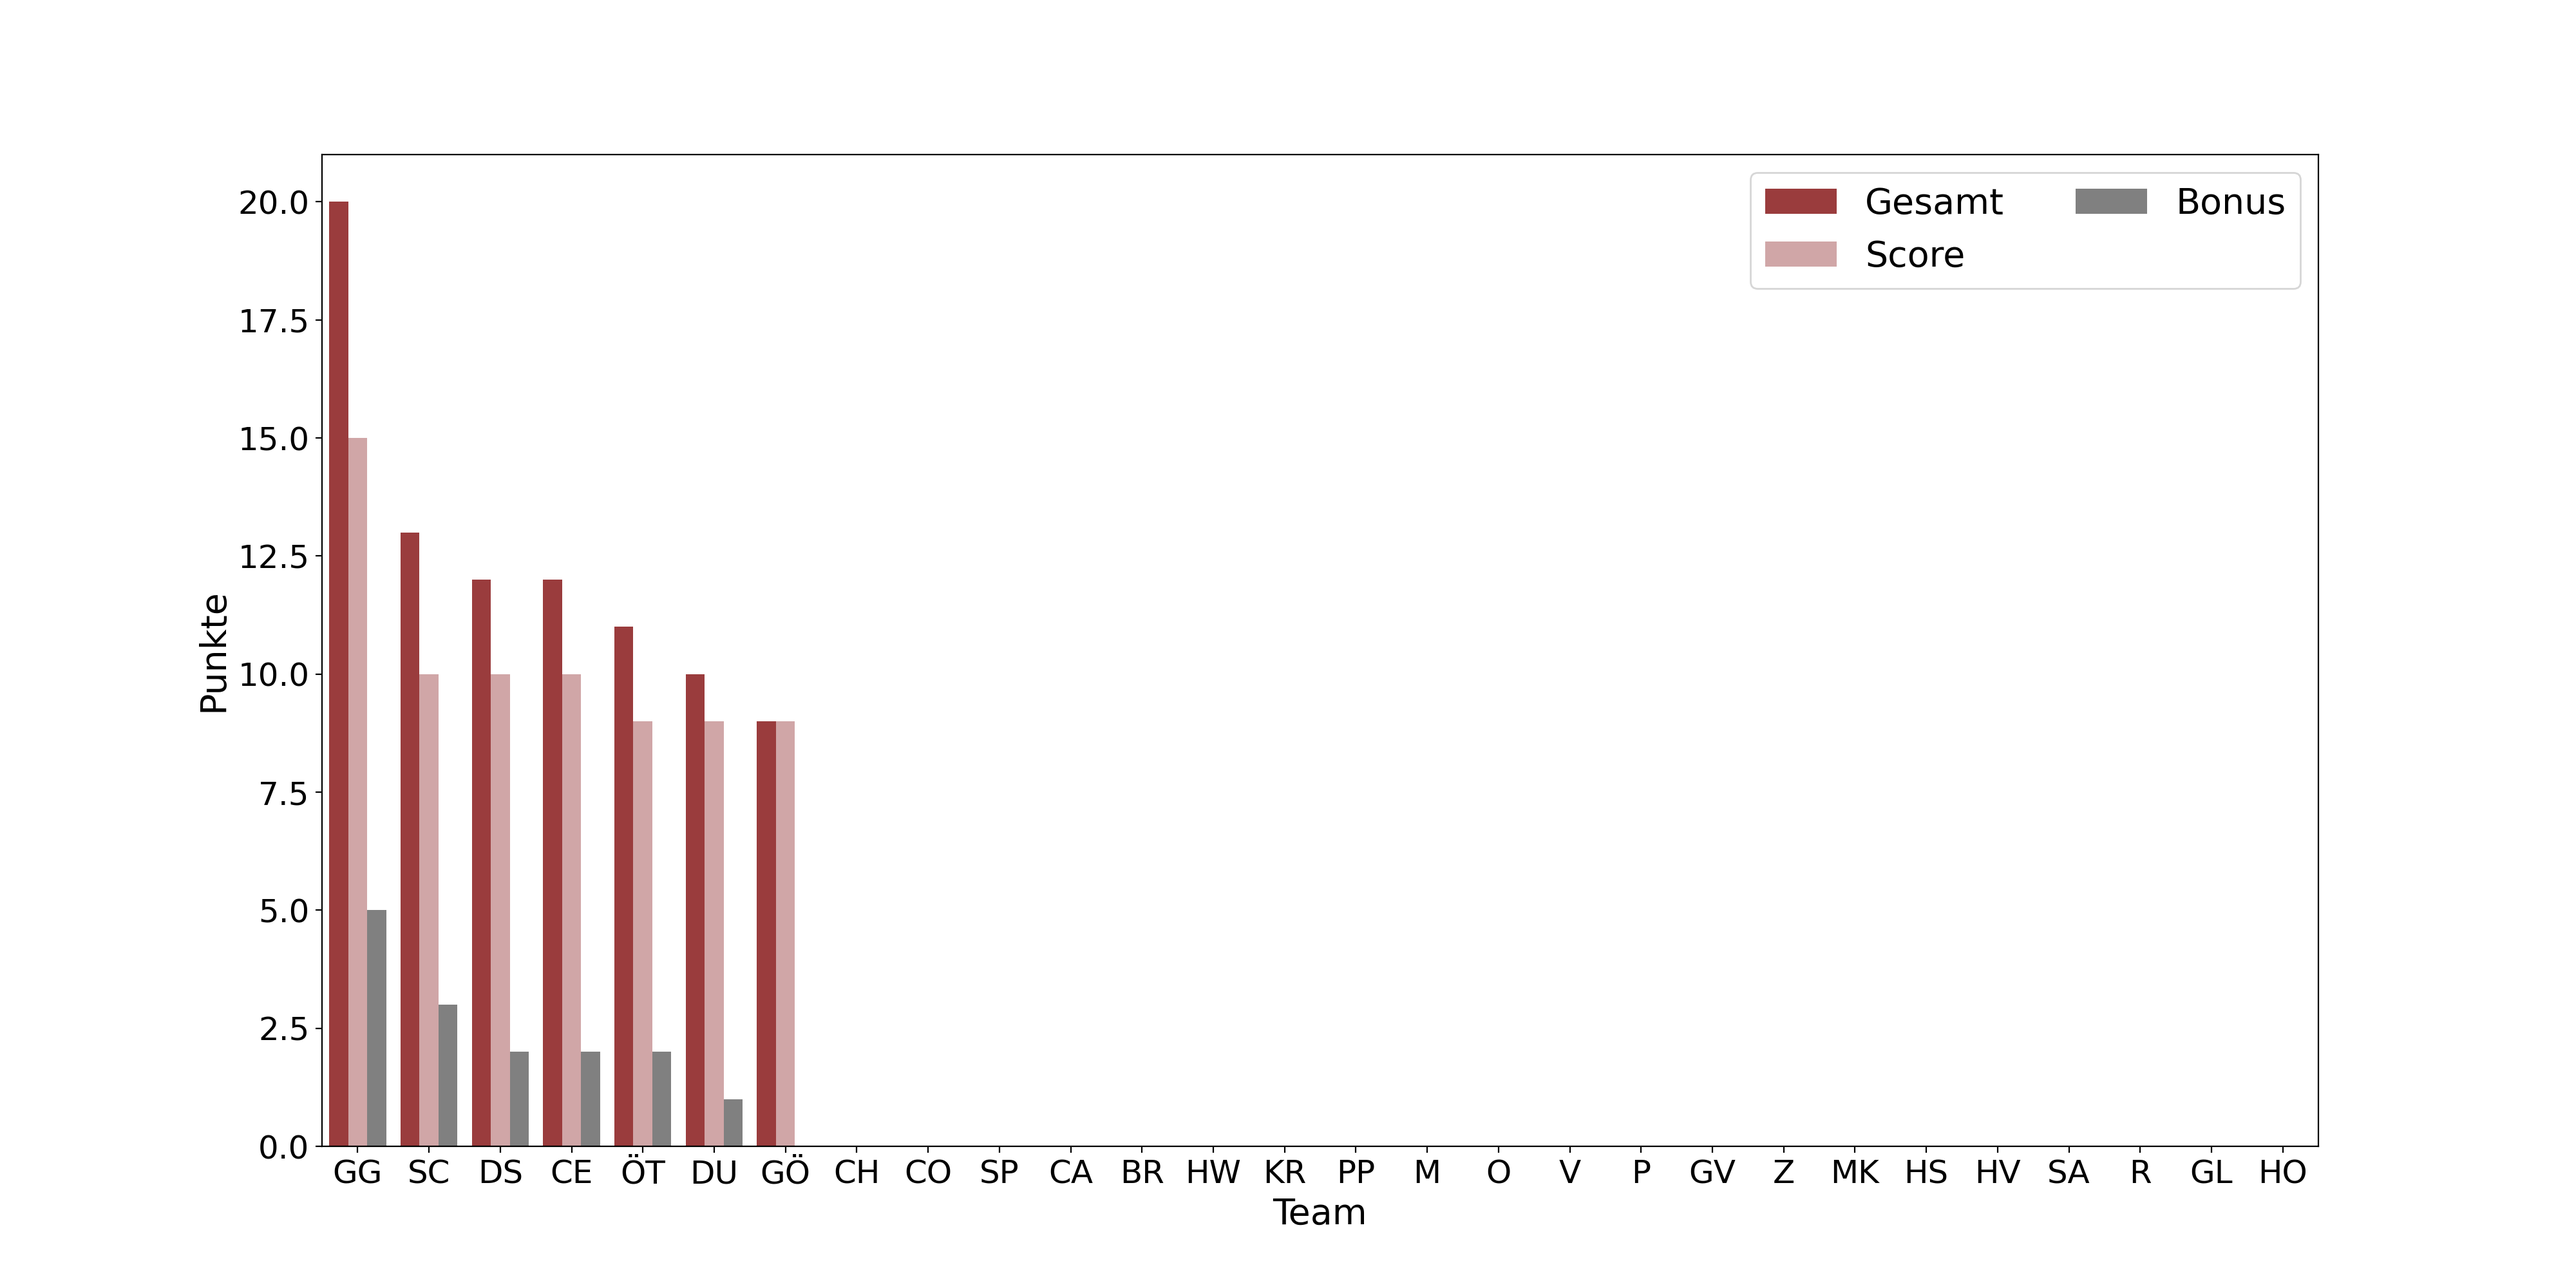
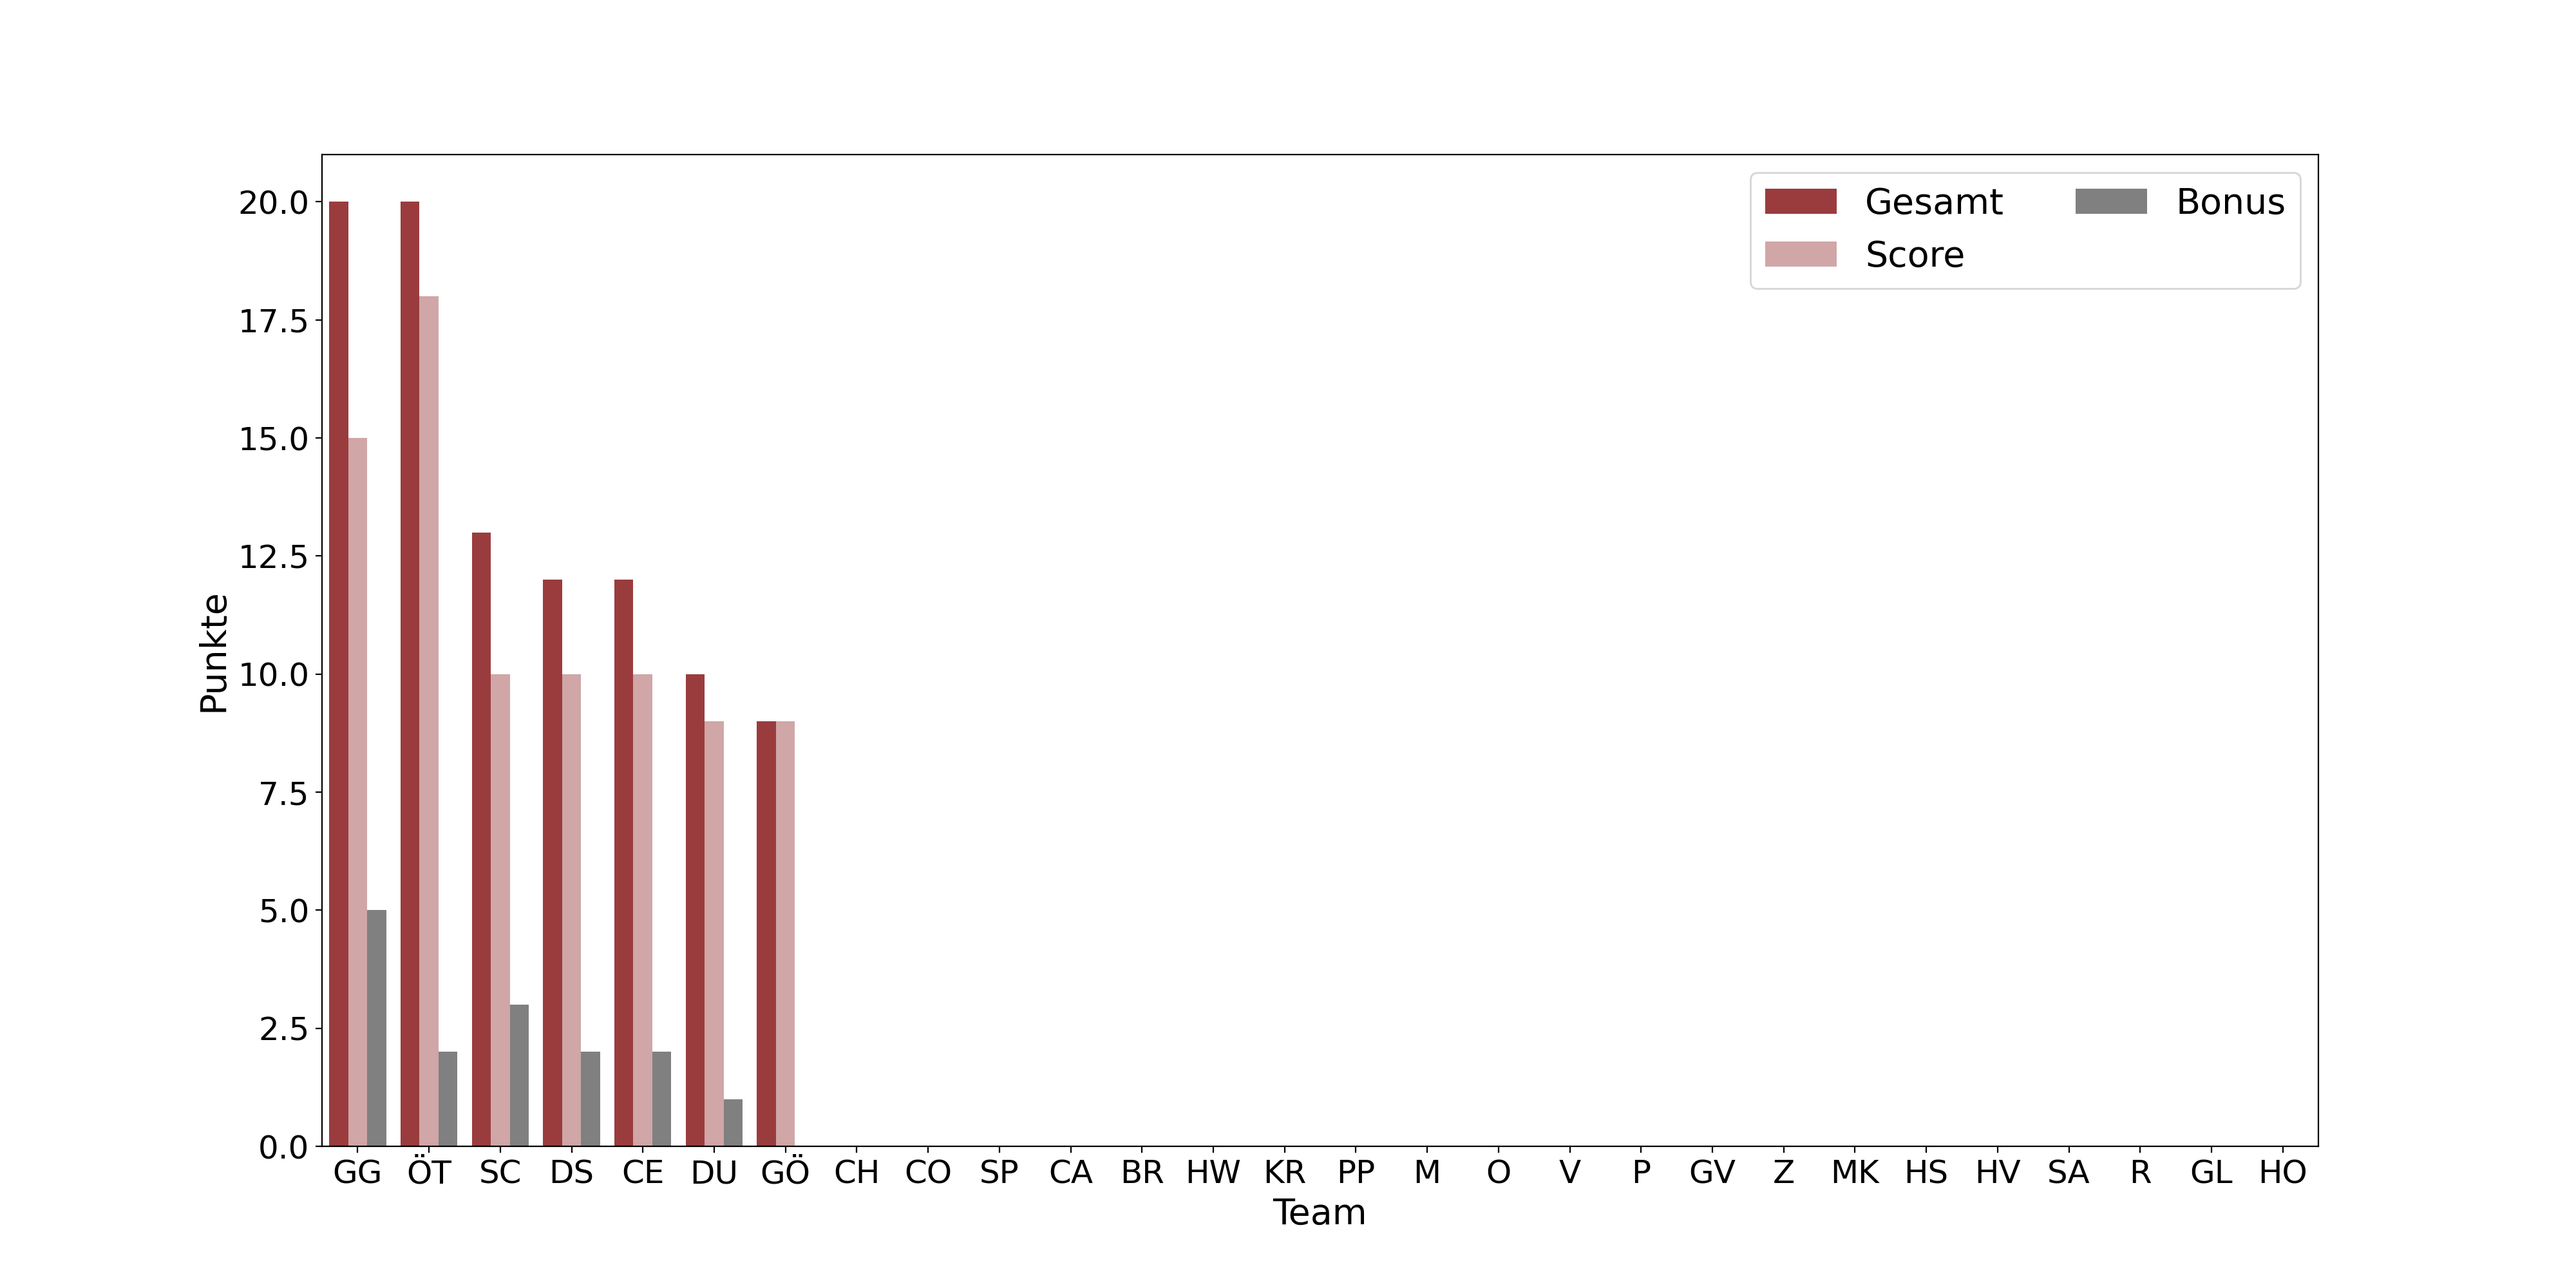
update

diff --git a/css/style_teams.css b/css/style_teams.css
@@ -92,7 +92,7 @@
             background-color: #dab894
         }
         .DS {
-            order: 2
+            order: 3
         }
         .DS .team__all-points::after{
             content: "12"
@@ -121,10 +121,10 @@
 
 
         .OT .team__score::after {
-            content: "9/120"
+            content: "18/120"
         }
         .OT .team__stations::after {
-            content: "2/12"
+            content: "3/12"
         }
         .OT .team__bonus::after {
             content: "2/36"
@@ -133,10 +133,10 @@
             background-color: #957DAD
         }
         .OT {
-            order: 4
+            order: 1
         }
         .OT .team__all-points::after{
-            content: " 11"
+            content: " 20"
         }
 
 
@@ -234,7 +234,7 @@
             background-color: #9d8189
         }
         .SC {
-            order: 1
+            order: 2
         }
         .SC .team__all-points::after{
             content: "13"
@@ -376,7 +376,7 @@
             background-color: #ff928b
         }
         .CE {
-            order: 3
+            order: 4
         }
         .CE .team__all-points::after{
             content: "12"

diff --git a/css/style_station.css b/css/style_station.css
@@ -4,7 +4,7 @@
         }
         
         .B .station__teams::after {
-            content: "2/28"
+            content: "3/28"
         }
 
         .C .station__teams::after {
